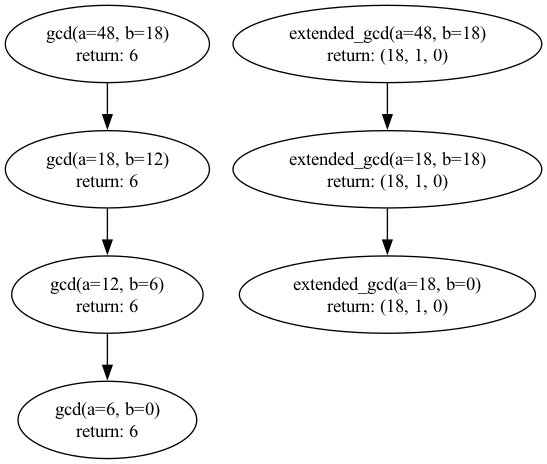
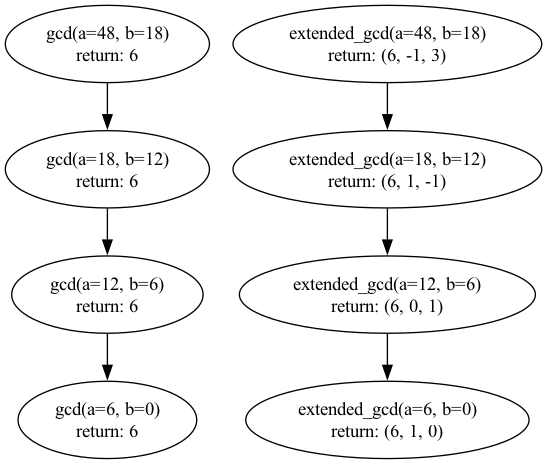
solved 10_number_theory.py

diff --git a/week2/basic/10_number_theory.py b/week2/basic/10_number_theory.py
@@ -79,7 +79,7 @@ def lcm(a, b):
         최소공배수
     """
     # TODO: LCM 계산
-    return a * b / gcd(a, b)
+    return a * b // gcd(a, b)
 
 @visualizer.visualize(param_names=["a", "b"])
 def extended_gcd(a, b):
@@ -123,12 +123,21 @@ def is_prime(n):
     # n이 2보다 작으면 False
     if n < 2:
         return False
-
-    # 2부터 sqrt(n)까지 나누어 떨어지는지 확인
-    if     
-    # 3부터 sqrt(n)까지 홀수만 확인
     
+    # 2는 소수
+    if n == 2:
+        return True
 
+    # 짝수는 다 소수 아님
+    if n % 2 == 0:
+        return False
+
+    # 3부터 sqrt(n)까지 홀수만 확인
+    for i in range(3, int(n ** 0.5) + 1, 2):
+        if n % i == 0:
+            return False
+        
+    return True
 # 테스트 케이스
 if __name__ == "__main__":
     # 테스트 케이스 1: GCD와 LCM
